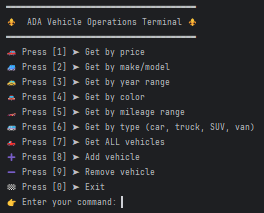
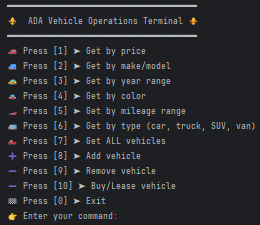
complete README.md

Changed region(s): [[0.0308, 0.0, 0.9846, 0.9859]]

diff --git a/src/main/java/com/ps/UserInterface.java b/src/main/java/com/ps/UserInterface.java
@@ -390,7 +390,7 @@ public class UserInterface {
         //save to contracts.csv
         ContractFileManager.saveContract(salesContract);
 
-        System.out.println("Successfully purchased - check paper work");
+//        System.out.println("Successfully purchased - check paper work");
         //print receipt to user
         printReceipt(salesContract, foundVehicle);
 
@@ -437,7 +437,7 @@ public class UserInterface {
         //save to contracts.csv
         ContractFileManager.saveContract(leaseContract);
 
-        System.out.println("Successfully purchased - check paper work");
+//        System.out.println("Successfully purchased - check paper work");
 
         //print receipt to user
         printReceipt(leaseContract, foundVehicle);

diff --git a/README.md b/README.md
@@ -1,6 +1,10 @@
 # 🚗🛻🚙 Vehicle Dealership Management System
 
-Welcome to the **Vehicle Dealership Management System**! This project allows the user to manage a vehicle inventory for a dealership. It provides a command-line interface (CLI) for performing various operations on the list of vehicles, such as filtering vehicles based on attributes, adding new vehicles, or removing existing ones.
+Welcome to the **Vehicle Dealership Management System**! 
+This project allows the user to manage a vehicle inventory for a dealership.
+A console-based Java application that simulates a full vehicle dealership management system. 
+It supports inventory operations, contract processing, receipt generation, error logging, and an interactive user interface.
+
 
 ![Home Screen](/images/homeScreen.png)
 
@@ -8,32 +12,31 @@ Welcome to the **Vehicle Dealership Management System**! This project allows the
 
 ## ✨ Features
 
-- 💰 **Filter by Price**
-  - Allows the user to filter vehicles within a specific price range.
+### 📄 Contract System
+- Create and save **Sales** or **Lease** contracts.
+- Automatically removes vehicles from inventory after a transaction.
+- Sales contracts support financing options.
+- Contracts are saved to a `contracts.csv` file.
 
-- 🏷 **Filter by Make and Model**
-  - Enables the user to filter vehicles by their make and model.
+### 🧾 Receipt Generation
+- Console-formatted, professional-style receipts with emojis.
+- Clear breakdown of vehicle and transaction details.
+- Displays taxes, fees, financing, and monthly payments.
 
-- 📅 **Filter by Year**
-  - Lets the user search for vehicles within a specified year range.
+### 🔍 Inventory Search & Filter
+- Search vehicles by:
+  - 💰 Price range
+  - 🏷 Make and Model
+  - 📅 Year range
+  - 🎨 Color
+  - 🛣 Mileage range
+  - 🚘 Vehicle type (Car, Truck, SUV, Van)
 
-- 🎨 **Filter by Color**
-  - Enables the user to filter vehicles by their color.
+### 🛠 Inventory Management
+- Add or remove vehicles via console prompts.
+- Changes are saved to `vehicles.csv`.
+- Displays all vehicles currently available in the dealership's inventory.
 
-- 🛣 **Filter by Mileage**
-  - Lets the user filter vehicles based on their mileage.
-
-- 🚘 **Filter by Vehicle Type**
-  - Provides an option to filter vehicles by their type (e.g., Car, Truck, SUV, Van).
-
-- 📋 **Display All Vehicles**
-  - Displays all vehicles currently available in the dealership's inventory.
-
-- ➕ **Add a Vehicle**
-  - Lets the user add a new vehicle to the inventory.
-
-- ➖**Remove a Vehicle**
-  - Allows the user to remove a vehicle from the dealership's inventory.
 
 ### Filtering Screenshots
 
@@ -83,6 +86,18 @@ Removing Vehicle
 
 ![Remove Vehicle Result](/images/removeVehicleResult.png)
 
+Buying Vehicle
+
+![Sales Contract](/images/salesContract.png)
+
+![Sales Receipt](/images/salesReceipt.png)
+
+Leasing Vehicle
+
+![Leasing Contract](/images/leaseContract.png)
+
+![Leasing Receipt](/images/leaseReceipt.png)
+
 ---
 
 ## 🗂 File List
@@ -94,6 +109,10 @@ Removing Vehicle
 | `Vehicle.java`               | Represents a single vehicle in the dealership's inventory.                        | - Stores vehicle details (VIN, year, make, model, etc.).<br>- Contains a `toString` method to display vehicle details.                                                                         |
 | `DealershipFileManager.java` | Manages loading and saving the dealership's vehicle inventory from/to a CSV file. | - Loads vehicles from a CSV file.<br>- Saves inventory to CSV after updates.<br>- Ensures data persistence.                                                                                    |
 | `exceptions.log`             | A log file to track any errors or exceptions that occur during program execution. | - Timestamps errors.<br>- Logs exception messages to help diagnose issues.                                                                                                                     |
+| `Contract.java`              | Abstract base class representing a sales or lease contract.                       | - Defines shared contract fields like customer name, date, and vehicle.<br>- Provides common functionality for child contract types.                                                           |
+| `ContractFileManager.java`   | Handles reading and writing contract data to a persistent storage file.           | - Saves contract details to a CSV file (e.g., `contracts.csv`).<br>- Supports both sales and lease contract serialization.                                                                     |
+| `LeaseContract.java`         | Represents a lease agreement for a vehicle.                                       | - Calculates expected monthly payments.<br>- Includes lease-specific fields such as lease term and rate.                                                                                       |
+| `SalesContract.java`         | Represents a finalized contract for a vehicle purchase.                           | - Calculates total cost including fees and sales tax.<br>- Stores details like finance option and down payment.                                                                                |
 
 ---
 
@@ -115,32 +134,87 @@ Time of occurrence: 2025-05-11 14:30:12 Invalid input: -1 for mileage
 
 ---
 
-# 🔥 Cool Code Highlight: Dynamic Vehicle Filtering
+# 🔥 Cool Code Highlight: Dynamic Contract Saving
 
-The `processGetByMakeModelRequest()` method demonstrates a smart and user-friendly way to filter vehicles based on flexible input (make, model, or both):
+The `saveContract()` method in ContractFileManager is a great example of clean and scalable code. 
+It dynamically detects whether a contract is a sales or lease contract and writes the appropriate data to a shared file (`contracts.csv`).
+
+This design uses polymorphism, Java’s instanceof pattern matching, and structured CSV formatting — making it both powerful and easy to extend in the future.
+
 
 ````
-System.out.print("👉 Enter Make: ");
-String make = scanner.nextLine();
-System.out.print("👉 Enter Model: ");
-String model = scanner.nextLine();
+if(contract instanceof SalesContract salesContract) {
+    Vehicle chosenVehicle = salesContract.getVehicleChosen();
 
-ArrayList<Vehicle> filteredVehicles = dealership.getVehiclesByMakeModel(make, model);
+    //write to sales contract file
+    try {
+        BufferedWriter bufferedWriter = new BufferedWriter(new FileWriter("contracts.csv", true));
+        String isFinanced;
+        if(salesContract.isFinanced()) {
+            isFinanced = "YES";
+        }
+        else {
+            isFinanced = "NO";
+        }
 
-if(make.isEmpty() && model.isEmpty()) {
-    System.out.println("❌ Oops! You left both the make and model blank. 🛠 Please enter at least one to filter vehicles.");
+        String firstLine = String.format("SALE|%s|%s|%s|%d|%d|%s|%s|%s|%s|%d|%.2f|%.2f|%.2f|%.2f|%.2f|%s|%.2f\n",
+                salesContract.getDate(),
+                salesContract.getCustomerName(),
+                salesContract.getCustomerEmail(),
+                chosenVehicle.getVin(),
+                chosenVehicle.getYear(),
+                chosenVehicle.getMake(),
+                chosenVehicle.getModel(),
+                chosenVehicle.getVehicleType(),
+                chosenVehicle.getColor(),
+                chosenVehicle.getOdometer(),
+                chosenVehicle.getPrice(),
+                salesContract.calcSalesTax(),
+                salesContract.getRecordingFee(),
+                salesContract.getProcessingFee(),
+                salesContract.getTotalPrice(),
+                isFinanced,
+                salesContract.getMonthlyPayment()
+        );
+        bufferedWriter.write(firstLine);
+
+        bufferedWriter.close();
+    } catch (IOException e) {
+        UserInterface.writeErrorsToLogsFile(e);
+    }
 }
-else if (!make.isEmpty() && model.isEmpty()) {
-    System.out.println("\n🔍 Displaying Filtered Make Range");
-    ...
-}
-else if (make.isEmpty() && !model.isEmpty()) {
-    System.out.println("\n🔍 Displaying Filtered Model Range");
-    ...
-}
-else {
-    System.out.println("\n🔍 Displaying Filtered Make & Model Range");
-}
+else if (contract instanceof LeaseContract leaseContract) {
+    //TODO: write to lease contract file
+    Vehicle chosenVehicle = leaseContract.getVehicleChosen();
+
+    //write to lease contract file
+    try {
+        BufferedWriter bufferedWriter = new BufferedWriter(new FileWriter("contracts.csv", true));
+
+        String firstLine = String.format("LEASE|%s|%s|%s|%d|%d|%s|%s|%s|%s|%d|%.2f|%.2f|%.2f|%.2f|%.2f\n",
+                leaseContract.getDate(),
+                leaseContract.getCustomerName(),
+                leaseContract.getCustomerEmail(),
+                chosenVehicle.getVin(),
+                chosenVehicle.getYear(),
+                chosenVehicle.getMake(),
+                chosenVehicle.getModel(),
+                chosenVehicle.getVehicleType(),
+                chosenVehicle.getColor(),
+                chosenVehicle.getOdometer(),
+                chosenVehicle.getPrice(),
+                leaseContract.getExpectedEndingValue(),
+                leaseContract.getLeaseFee(),
+                leaseContract.getTotalPrice(),
+                leaseContract.getMonthlyPayment()
+        );
+        bufferedWriter.write(firstLine);
+
+        bufferedWriter.close();
+    } catch (IOException e) {
+        UserInterface.writeErrorsToLogsFile(e);
+    }
+
 
 ````
 ---
@@ -160,6 +234,6 @@ Use this code at your own risk. The developers are not responsible for any data 
 # 🧑💻 Author
 💻 Developed by: Meixin Zhang
 
-📅 Date: May 11th, 2025
+📅 Date: May 18th, 2025
 
 Created with ❤ using Java.
